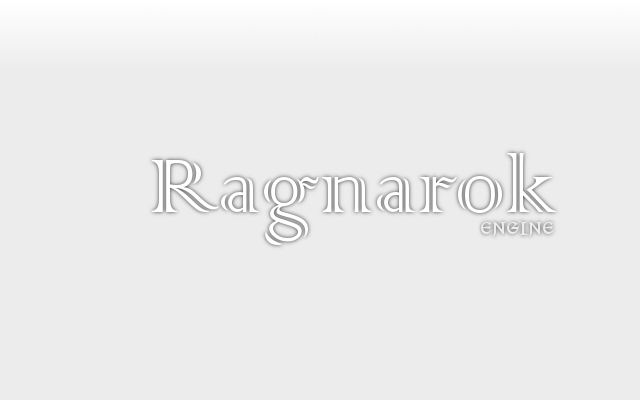
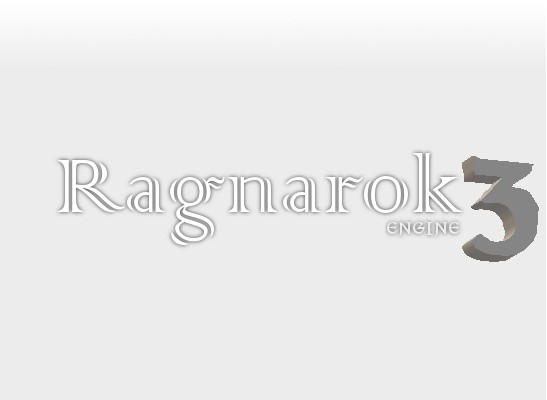
Changes to images and to tutorial readmes

Changed region(s): [[0.0932, 0.36, 0.9945, 0.66]]

diff --git a/README.md b/README.md
@@ -1,4 +1,4 @@
-# Ragnarok Engine
+# Ragnarok Engine 3
 
 ![Ragnarok Engine](Ragnarok.jpg)
 
@@ -44,7 +44,7 @@ This code is being expanded and ported to python 3.6
 
 ## Features
 
-Many basic classes and methods are already inplace for Ragnarok Engine
+Many basic classes and methods are already inplace for Ragnarok Engine3
 - 2D and 3D Vector Math Library
 - Sprites with easy rotation, scaling, texture loading, etc.
 - SpriteSheet and Animation classes

diff --git a/Tutorials/README.md b/Tutorials/README.md
@@ -1,0 +1,10 @@
+Tutorials
+---
+
+The first 3 tutorials and the game are almost completely creations of the 
+original author of this project.
+
+Here you will find how to use the engine properly to do your everyday
+stuff, how to create sprites, new objects, event handlers, etc.
+
+Help expanding it.

diff --git a/Tutorials/Tutorial 3 - Creating new entities/README.md b/Tutorials/Tutorial 3 - Creating new entities/README.md
@@ -1,7 +1,7 @@
-# Tutorial 3 - Creating new Entities
+Tutorial 3 - Creating new Entities
 ---
 
-Based on the post from the original author, found on the Web Archive (enlightened be the archivists and bibliotecarians)
+Based on the post from the original author, found on the Web Archive
 
 ## How to
 

diff --git a/Tutorials/Tutorial 1 - Starting the engine/README.md b/Tutorials/Tutorial 1 - Starting the engine/README.md
@@ -1,7 +1,7 @@
-# Tutorial 1 - Getting Started
+Tutorial 1 - Getting Started
 ---
 
-Based on the post from the original author, found on the Web Archive (enlightened be the archivists and bibliotecarians)
+Based on the post from the original author, found on the Web Archive
 
 ## The Basics
 

diff --git a/Tutorials/Tutorial 2 - Adding sprites/README.md b/Tutorials/Tutorial 2 - Adding sprites/README.md
@@ -1,7 +1,7 @@
-# Tutorial 2 - Adding Sprites
+Tutorial 2 - Adding Sprites
 ---
 
-Based on the post from the original author, found on the Web Archive (enlightened be the archivists and bibliotecarians)
+Based on the post from the original author, found on the Web Archive
 
 ## The Sprite
 
